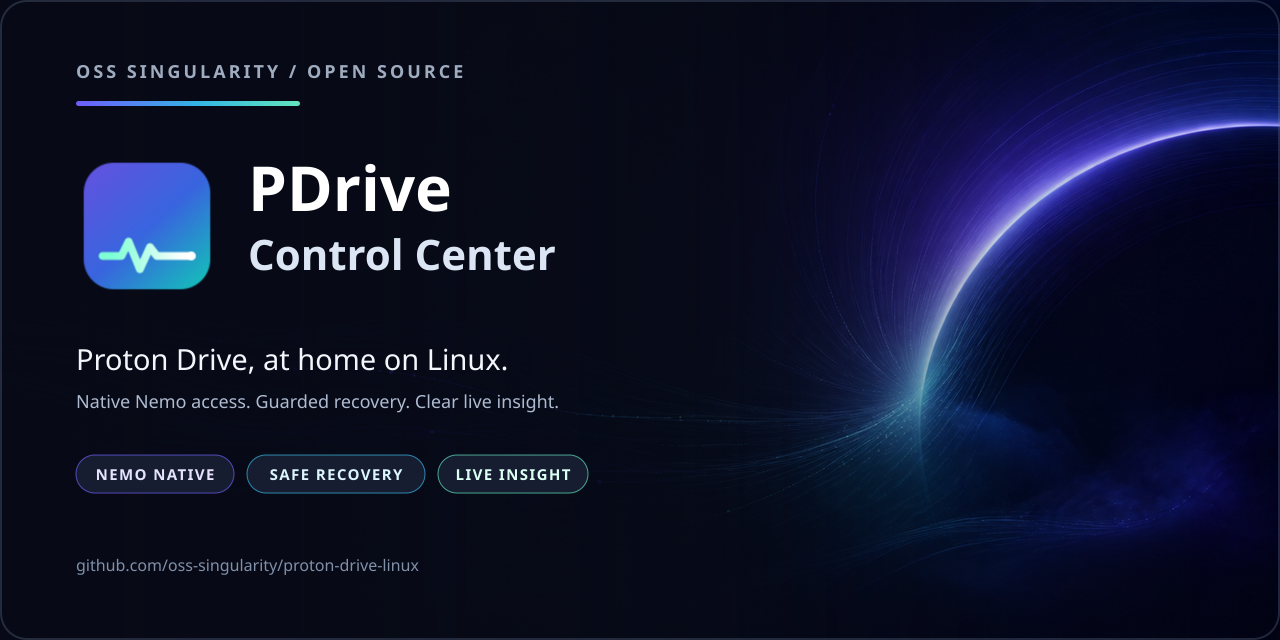
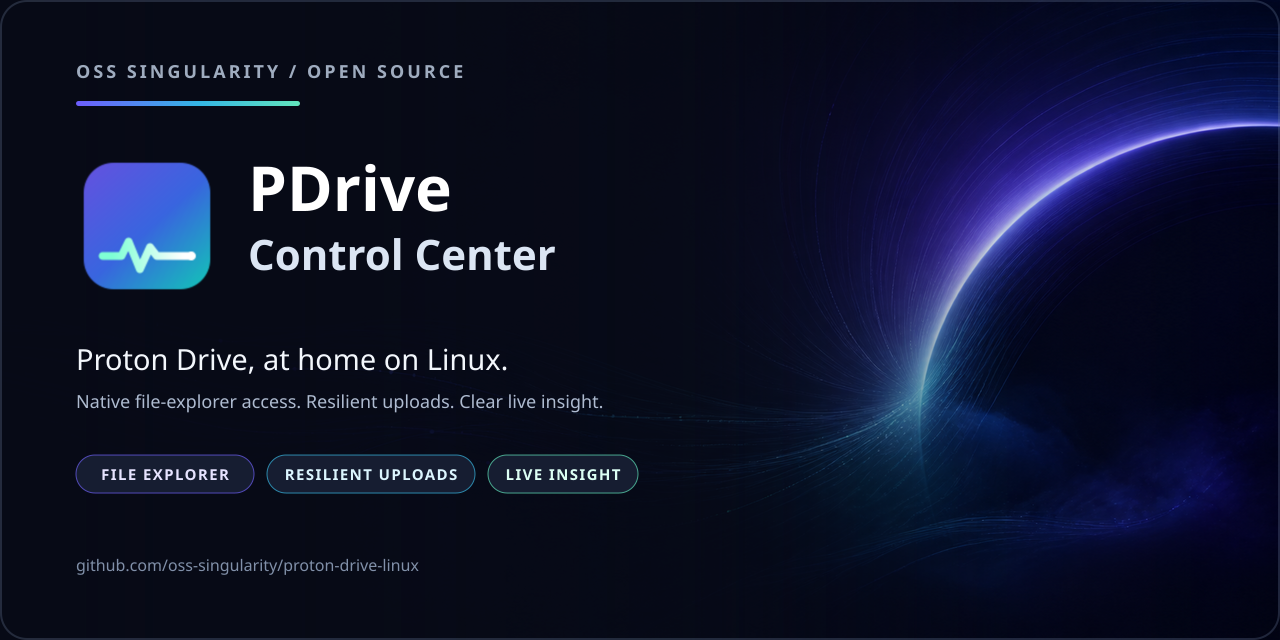
Make social preview variants reproducible

Changed region(s): [[0.0625, 0.6875, 0.5, 0.7812], [0.0938, 0.5938, 0.4688, 0.6562]]

diff --git a/.github/social-preview-src/render.py b/.github/social-preview-src/render.py
@@ -1,0 +1,118 @@
+#!/usr/bin/env python3
+"""Render a deterministic PDrive social-preview variant."""
+
+from __future__ import annotations
+
+import argparse
+import html
+import json
+import shutil
+import subprocess
+import tempfile
+from pathlib import Path
+
+WIDTH = 1280
+HEIGHT = 640
+
+
+def parse_args(variants: list[str]) -> argparse.Namespace:
+    parser = argparse.ArgumentParser(description=__doc__)
+    parser.add_argument("--variant", choices=variants, required=True)
+    parser.add_argument("--output", type=Path, required=True)
+    return parser.parse_args()
+
+
+def image_magick() -> list[str]:
+    executable = shutil.which("magick") or shutil.which("convert")
+    if not executable:
+        raise SystemExit("ImageMagick is required (magick or convert).")
+    return [executable]
+
+
+def main() -> int:
+    source_dir = Path(__file__).resolve().parent
+    repo_dir = source_dir.parents[1]
+    variants = json.loads((source_dir / "variants.json").read_text(encoding="utf-8"))
+    args = parse_args(sorted(variants))
+    variant = variants[args.variant]
+
+    background = source_dir / "background.png"
+    icon = repo_dir / "share/icons/hicolor/scalable/apps/io.github.claudiuschuster.PDriveControl.svg"
+    if not background.is_file() or not icon.is_file():
+        raise SystemExit("Social-preview background or PDrive icon is missing.")
+
+    badge_width = int(variant["badge_width"])
+    second_x = 76 + badge_width + 13
+    third_x = second_x + 208 + 13
+    replacements = {
+        "{{TAGLINE}}": html.escape(str(variant["tagline"])),
+        "{{BADGE}}": html.escape(str(variant["badge"])),
+        "{{BADGE_WIDTH}}": str(badge_width),
+        "{{BADGE_CENTER}}": str(76 + badge_width / 2),
+        "{{SECOND_X}}": str(second_x),
+        "{{SECOND_CENTER}}": str(second_x + 104),
+        "{{THIRD_X}}": str(third_x),
+        "{{THIRD_CENTER}}": str(third_x + 75),
+    }
+    overlay_text = (source_dir / "overlay.svg").read_text(encoding="utf-8")
+    for marker, value in replacements.items():
+        overlay_text = overlay_text.replace(marker, value)
+
+    command = image_magick()
+    output = args.output.resolve()
+    output.parent.mkdir(parents=True, exist_ok=True)
+    with tempfile.TemporaryDirectory(prefix="pdrive-social-preview-") as temporary:
+        work_dir = Path(temporary)
+        overlay_svg = work_dir / "overlay.svg"
+        overlay_png = work_dir / "overlay.png"
+        canvas = work_dir / "background.png"
+        icon_source = work_dir / "icon-source.png"
+        app_icon = work_dir / "icon.png"
+        overlay_svg.write_text(overlay_text, encoding="utf-8")
+
+        subprocess.run(
+            command + ["-background", "none", str(overlay_svg), str(overlay_png)],
+            check=True,
+        )
+        subprocess.run(
+            command + [str(background), "-resize", f"{WIDTH}x{HEIGHT}!", str(canvas)],
+            check=True,
+        )
+        subprocess.run(
+            command
+            + [
+                "-background",
+                "none",
+                str(icon),
+                "-resize",
+                "256x256",
+                str(icon_source),
+            ],
+            check=True,
+        )
+        subprocess.run(
+            command + [str(icon_source), "-resize", "142x142", str(app_icon)],
+            check=True,
+        )
+        subprocess.run(
+            command
+            + [
+                str(canvas),
+                str(overlay_png),
+                "-composite",
+                str(app_icon),
+                "-geometry",
+                "+76+155",
+                "-composite",
+                "-strip",
+                str(output),
+            ],
+            check=True,
+        )
+
+    print(f"Rendered {args.variant}: {output}")
+    return 0
+
+
+if __name__ == "__main__":
+    raise SystemExit(main())

diff --git a/.github/social-preview-src/render-all.py b/.github/social-preview-src/render-all.py
@@ -1,0 +1,88 @@
+#!/usr/bin/env python3
+"""Render or verify every configured PDrive social-preview variant."""
+
+from __future__ import annotations
+
+import argparse
+import json
+import subprocess
+import sys
+import tempfile
+from pathlib import Path
+
+
+def parse_args() -> argparse.Namespace:
+    parser = argparse.ArgumentParser(description=__doc__)
+    parser.add_argument(
+        "--check",
+        action="store_true",
+        help="fail if a committed preview differs from a fresh render",
+    )
+    return parser.parse_args()
+
+
+def configured_output(repo_dir: Path, value: object) -> Path:
+    relative = Path(str(value))
+    if relative.is_absolute():
+        raise SystemExit(f"Preview output must be repository-relative: {relative}")
+
+    output = (repo_dir / relative).resolve()
+    try:
+        output.relative_to(repo_dir)
+    except ValueError as error:
+        raise SystemExit(f"Preview output escapes the repository: {relative}") from error
+    return output
+
+
+def render(render_script: Path, variant: str, output: Path) -> None:
+    subprocess.run(
+        [
+            sys.executable,
+            str(render_script),
+            "--variant",
+            variant,
+            "--output",
+            str(output),
+        ],
+        check=True,
+    )
+
+
+def main() -> int:
+    args = parse_args()
+    source_dir = Path(__file__).resolve().parent
+    repo_dir = source_dir.parents[1].resolve()
+    render_script = source_dir / "render.py"
+    variants = json.loads((source_dir / "variants.json").read_text(encoding="utf-8"))
+
+    if not isinstance(variants, dict) or not variants:
+        raise SystemExit("At least one social-preview variant must be configured.")
+
+    if not args.check:
+        for name in sorted(variants):
+            output = configured_output(repo_dir, variants[name]["output"])
+            render(render_script, name, output)
+        return 0
+
+    stale: list[Path] = []
+    with tempfile.TemporaryDirectory(prefix="pdrive-social-preview-check-") as temporary:
+        check_dir = Path(temporary)
+        for name in sorted(variants):
+            committed = configured_output(repo_dir, variants[name]["output"])
+            candidate = check_dir / f"{name}.png"
+            render(render_script, name, candidate)
+            if not committed.is_file() or committed.read_bytes() != candidate.read_bytes():
+                stale.append(committed)
+
+    if stale:
+        for output in stale:
+            print(f"Stale social preview: {output.relative_to(repo_dir)}", file=sys.stderr)
+        print("Run make social-preview and commit the results.", file=sys.stderr)
+        return 1
+
+    print(f"All {len(variants)} social-preview variants are current.")
+    return 0
+
+
+if __name__ == "__main__":
+    raise SystemExit(main())

diff --git a/.github/social-preview-src/README.md b/.github/social-preview-src/README.md
@@ -1,0 +1,38 @@
+# Social preview source
+
+The repository preview is rendered at 1280×640 from three lossless sources:
+
+- `background.png`: the original 1774×887 abstract event-horizon artwork.
+- the canonical PDrive SVG icon under `share/icons/`.
+- deterministic SVG typography and layout generated by `render.py`.
+- output paths and distro or file-manager copy from `variants.json`.
+
+The committed outputs are:
+
+- `.github/social-preview.png`: distro-neutral GitHub repository preview.
+- `.github/social-preview-nemo.png`: preserved Nemo-specific store artwork.
+
+Render both variants with:
+
+```console
+make social-preview
+```
+
+Verify that the committed PNGs still match their sources with:
+
+```console
+make check-social-preview
+```
+
+Both commands process every profile in `variants.json`. Add another file-manager
+or distribution profile there, including its repository-relative output path;
+the background, icon, typography, and layout remain shared, and the new variant
+automatically joins both the build and freshness check.
+
+The background was generated specifically for PDrive with this prompt:
+
+> Create an elegant abstract open-source technology backdrop suggesting a calm
+> event horizon, secure cloud storage, and flowing data paths. Use deep
+> near-black navy, indigo, restrained violet, cyan, and mint. Keep the left side
+> dark and quiet for branding, and place a gentle luminous arc on the right. No
+> text, letters, logos, icons, screenshots, UI, people, or watermark.
